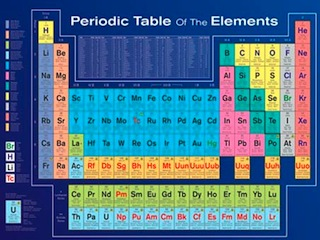
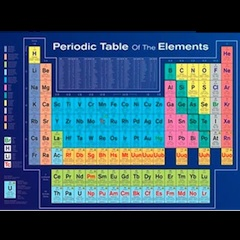
Changed figure preview aspect ratio

diff --git a/frontend/js/backbone/collections/FiguresCollection.js b/frontend/js/backbone/collections/FiguresCollection.js
@@ -22,7 +22,7 @@ OsciTk.collections.Figures = OsciTk.collections.BaseCollection.extend({
 	 */
 	populateFromMarkup: function(data) {
 		_.each(data, function(markup) {
-			
+
 			var idComponents = markup.id.match(/\w+-(\d+)-(\d+)/);
 			var figure = {
 				id:         markup.id,
@@ -36,7 +36,6 @@ OsciTk.collections.Figures = OsciTk.collections.BaseCollection.extend({
 				columns:    $(markup).attr('data-columns'),
 				options:    JSON.parse($(markup).attr('data-options')),
 				thumbnail_url: null, // TODO: set to a default?
-				preview_url: null
 			};
 
 			// First, check for an explicit thumbnail
@@ -52,7 +51,6 @@ OsciTk.collections.Figures = OsciTk.collections.BaseCollection.extend({
 					figure.preview_url = image.attr('src');
 				}
 				// TODO: Default to the figure type default?
-				// TODO: If figure type default does not exist, use generic default 
 			}
 
 			this.add(figure);

diff --git a/frontend/js/backbone/templates/figures.tpl.html b/frontend/js/backbone/templates/figures.tpl.html
@@ -20,7 +20,7 @@
 		<div class='figure-reel'>
 			<% _.each(figures, function(figure) { %>
 				<figure class='preview' data-figure-id="<%= figure.id %>">
-					<div class='figure-preview' style="background-image: url('<%= figure.preview_url %>');" >&nbsp;</div>
+					<div class='figure-preview' style="background-image: url('<%= figure.thumbnail_url %>');" >&nbsp;</div>
 					<div class='figure-info'>
 						<h3 class='title'>Figure Title Here</h3>
 						<p class='meta-info'>meta info | more meta info</p>

diff --git a/frontend/css/toolbar.css b/frontend/css/toolbar.css
@@ -234,7 +234,7 @@ div.font-view div.font-control span.small {
 
 #toolbar .preview .figure-placeholder,
 #toolbar .figure-preview {
-	width: 320px;
+	width: 240px;
 	height: 240px;
 	float: left;
 	margin-right: 20px;
